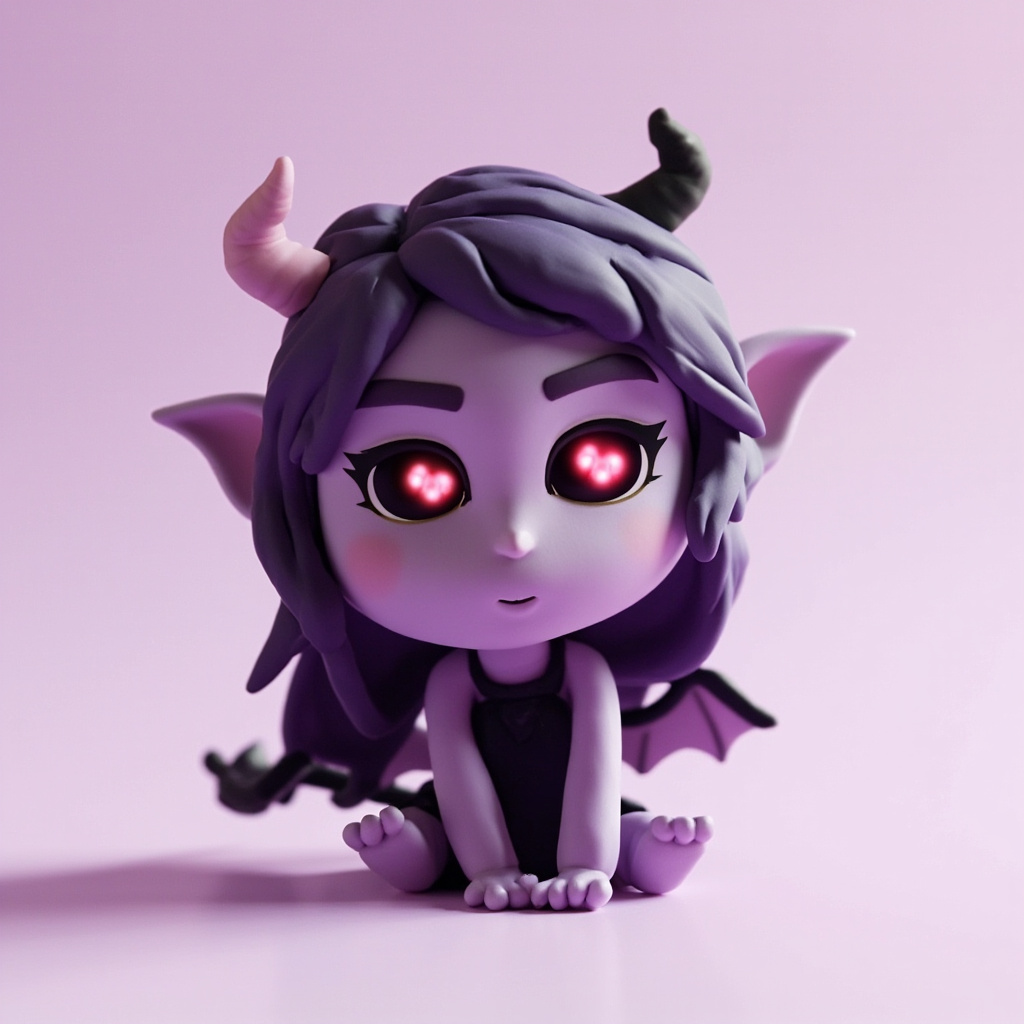
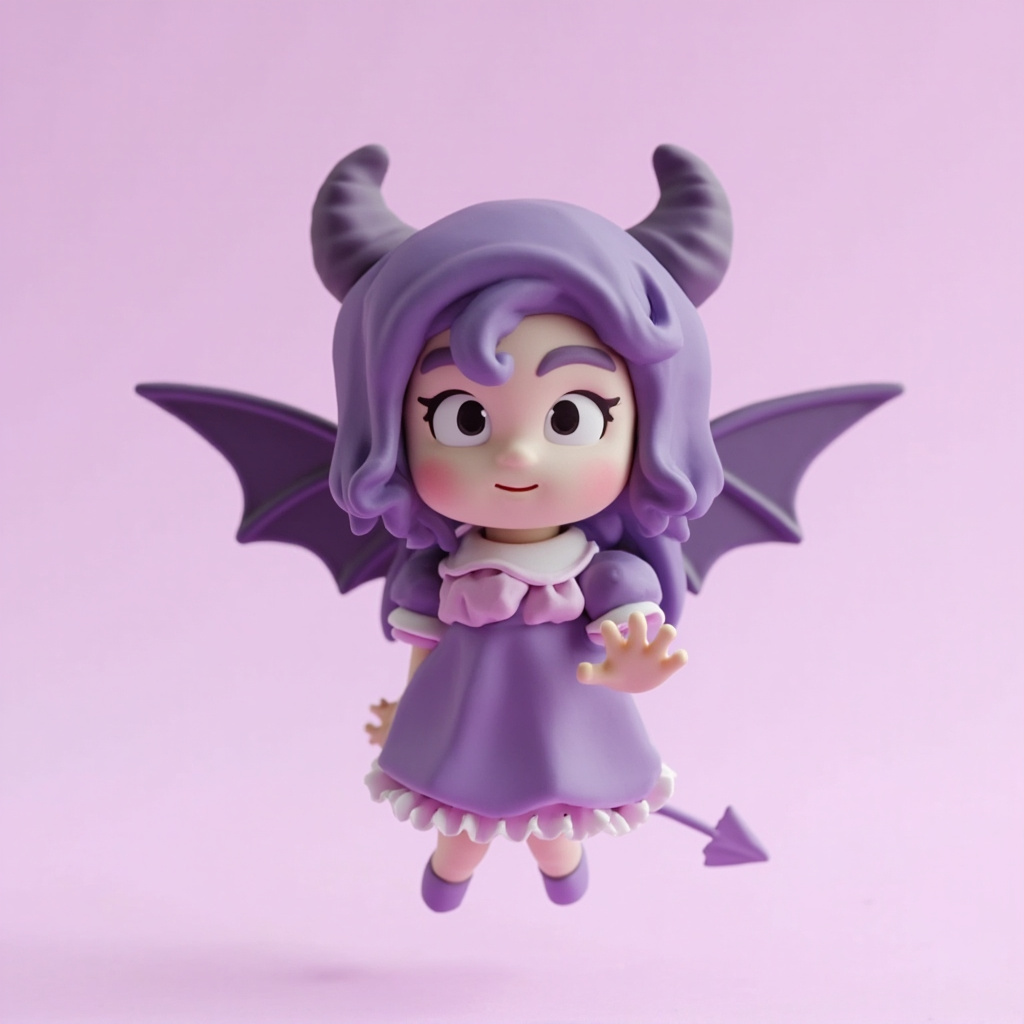
fix(assets): rework the succubus as a G-rated demon girl in a normal dress
Owner rule: every asset is rated G, with no sexual suggestion. The succubus
loses the heart eyes and the slip dress; it gets a lilac dress with puffed
sleeves and a white collar, lavender hair, and a new mockup. A rename of the
row waits for the owner (spec, Open decisions).

diff --git a/assets/succubus.ts b/assets/succubus.ts
@@ -2,38 +2,41 @@ import { profile, sdf } from '../src/index.js';
 import { impAsset } from './parts/imp-kind.js';
 
 /**
- * Succubus — Chibi Quest monster (catalog `monsters/abyssal-and-cosmic/succubus`), a charming
+ * Succubus — Chibi Quest monster (catalog `monsters/abyssal-and-cosmic/succubus`), a friendly
  * little demon girl about 0.85 m to the horn tips, faces +Z. Target:
  * docs/monster-mockups/succubus_001.jpg (made with mmx from the imp mockup).
  *
- * The imp of `assets/parts/imp-kind.ts` (head, ears, body, bat wings, arrow tail, rig, and clips) as
- * a demon charmer: lilac skin; long dark violet hair with a side-swept fringe; two curved dark horns
- * that rise up and back; a calm face with arched brows, dark lashes, pink cheeks, a small smile, and
- * glowing pink hearts in dark eyes; a dark slip dress; dark violet bat wings; no claws.
- * Role: a charming caster of the abyss family; the hair, the horns, and the glowing heart eyes read
- *   at 128 px. The mockup sits on the ground; the asset hovers like the imp.
- * Palette (60/30/10): lilac skin #b898d0 (darker back); dark violet hair, wings, and dress; dark
- *   horns; glowing pink heart eyes #ff4a9a and pink cheeks as the accent.
- * Bodies added: hair (rigid on the head), dress (on the torso), hearts (glowing, on the head).
+ * Owner rule (2026-10-04): every asset is rated G, with no sexual suggestion. This one is a pretty
+ * little demon in a normal dress.
+ *
+ * The imp of `assets/parts/imp-kind.ts` (head, ears, body, bat wings, arrow tail, rig, and clips)
+ * as a friendly demon girl: pale skin; long lavender hair with a side-swept fringe; two curved
+ * mauve horns that rise up and out; a calm face with dark eyes, thin lids, arched brows, pink
+ * cheeks, and a small smile; a lilac dress with short puffed sleeves, a white collar, a white hem,
+ * and a skirt to the knees; small violet bat wings; no claws.
+ * Role: a caster of the abyss family; the hair, the horns, and the lilac dress read at 128 px.
+ * Palette (60/30/10): pale skin #f2d8cc; lavender hair, a lilac dress, and violet wings (all follow
+ *   the wings slot); mauve horns; a white collar and hem, and pink cheeks as the accent.
+ * Bodies added: hair (rigid on the head), dress (bodice, skirt, and sleeves), collar.
  */
 
 type V3 = [number, number, number];
 
 export default impAsset({
   name: 'succubus',
-  description: 'Chibi succubus monster: a lilac demon girl with long dark violet hair, two curved dark horns, glowing pink heart eyes, arched brows, pink cheeks, a small smile, a dark slip dress, dark violet bat wings, and an arrow-tipped tail.',
+  description: 'Chibi succubus monster: a friendly little demon girl with long lavender hair, two curved mauve horns, dark eyes, pink cheeks, a small smile, a lilac dress with short puffed sleeves and a white collar, small violet bat wings, and an arrow-tipped tail.',
   reference: 'docs/monster-mockups/succubus_001.jpg',
   variants: {
-    skin: { lilac: '#b898d0', rose: '#e0a0b0', ash: '#a8a4b4' },
-    wings: { violet: '#4a2a5e', black: '#262028', wine: '#5e2236' },
-    eyes: { pink: '#ff4a9a', red: '#ff3a3a', gold: '#ffc83a' },
-    horns: { dark: '#2a1a2c', bone: '#c8b8a8', crimson: '#7a1e2a' },
+    skin: { pale: '#f2d8cc', lilac: '#c8b0dc', rose: '#eab4b8' },
+    wings: { violet: '#6a4a8e', plum: '#5e2a4e', slate: '#4a4a62' },
+    eyes: { brown: '#4a2a20', violet: '#7a4ab0', green: '#3a8a50' },
+    horns: { mauve: '#6a5a7a', dark: '#2a1a2c', bone: '#c8b8a8' },
   },
   presets: {
-    rose: { skin: 'rose', wings: 'wine', eyes: 'red', horns: 'crimson' },
-    ash: { skin: 'ash', wings: 'black', eyes: 'gold', horns: 'bone' },
+    lilac: { skin: 'lilac', wings: 'plum', eyes: 'violet', horns: 'dark' },
+    rose: { skin: 'rose', wings: 'slate', eyes: 'green', horns: 'bone' },
   },
-  colors: { skinDark: '#9478b0', belly: '#c8ace0', brow: '#3a2048', mouth: '#7a3a5a', vein: '#3a2048', wingBone: '#2a1a30' },
+  colors: { skinDark: '#dcbcb4', belly: '#f6e0d6', brow: '#5a3a6a', mouth: '#8a4a5a', vein: '#4a2a6a', wingBone: '#3a2a4a', irisDark: '#2a160e' },
   crest: false,
   brows: false,
   mouth: 'smile',
@@ -42,53 +45,30 @@ export default impAsset({
   wingScale: 0.8,
   horns: [
     [
-      [0.068, 0.6, 0.0, 0.03],
-      [0.1, 0.665, -0.02, 0.025],
-      [0.11, 0.735, -0.05, 0.017],
-      [0.09, 0.785, -0.09, 0.006],
+      [0.07, 0.6, 0.0, 0.034],
+      [0.13, 0.66, -0.01, 0.03],
+      [0.16, 0.73, 0.0, 0.022],
+      [0.14, 0.78, 0.03, 0.008],
     ],
   ],
   paint(skin, imp) {
     const [ex, ey] = imp.eye;
     const at = (s: sdf.Shape, x: number, y: number) => s.at(x, y, imp.faceZ(Math.abs(x), y));
     const both = (s: (x: number) => sdf.Shape) => sdf.union(s(ex), s(-ex));
-    // Dark irises (the hearts glow on them), dark lashes over the eyes, arched brows, pink cheeks.
-    const iris = both((x) => at(sdf.ellipsoid([0.038, 0.041, 0.07]), x - Math.sign(x) * 0.004, ey - 0.004));
-    const shine = both((x) => at(sdf.sphere(0.008), x + 0.012, ey + 0.016));
-    const lash = (x: number) => sdf.extrude(profile.arc(0.05, 0.011, 18, 162), 0.3).at(x, ey - 0.006, 0.1);
+    // The imp's round eyes stay; a thin dark lid line over each eye, arched brows, pink cheeks.
+    const lid = (x: number) => sdf.extrude(profile.arc(0.05, 0.007, 22, 158), 0.3).at(x, ey - 0.004, 0.1);
     const brow = (x: number) => sdf.extrude(profile.arc(0.06, 0.008, 45, 135), 0.3).at(x + Math.sign(x) * 0.004, ey + 0.012, 0.1);
     const cheeks = both((x) => at(sdf.ellipsoid([0.026, 0.016, 0.07]), x * 1.55, 0.466));
     return skin
-      .paintWhere(iris, '#3a1030', 0.003)
-      .paintWhere(shine, '#ffffff', 0.002)
-      .paintWhere(both(lash), '#2a1426', 0.002)
+      .paintWhere(both(lid), '#2a1426', 0.002)
       .paintWhere(both(brow), imp.tint.brow, 0.002)
       .paintWhere(cheeks, imp.tone('skin', '#f0a0c0', 0.5), 0.012);
   },
   extra(k, imp) {
-    const [ex, ey] = imp.eye;
     const head = imp.head;
-    // Glowing hearts in the eyes: a thin layer on the face, cut to a heart outline.
-    const heart = profile.polygon(
-      [
-        [0, -0.019],
-        [0.019, 0.002],
-        [0.017, 0.014],
-        [0.008, 0.017],
-        [0, 0.009],
-        [-0.008, 0.017],
-        [-0.017, 0.014],
-        [-0.019, 0.002],
-      ],
-      { smooth: true, samples: 3 },
-    );
-    const hearts = sdf.union(...[ex, -ex].map((x) => sdf.extrude(heart, 0.1).at(x - Math.sign(x) * 0.004, ey - 0.006, imp.faceZ(Math.abs(x), ey))));
-    const glow = head.round(0.0015).intersect(hearts).intersect(sdf.halfSpace([0, 0, -1], -0.05));
-    k.body('hearts', glow.bone('head'), { color: k.tint('eyes'), emissive: k.tint('eyes'), emissiveIntensity: 1.3, roughness: 0.3, detail: 0.002 });
-
     // Long hair: a cap over the skull, a mass down the back of the head, a side-swept fringe, and two
     // long locks in front of the shoulders. The face stays clear.
-    const hairColor = imp.tone('wings', '#4a2a5e', 1);
+    const hairColor = imp.tone('wings', '#9a82c4', 1);
     const cap = head.round(0.024).intersect(sdf.halfSpace([0, -1, 0], -0.47));
     const back = sdf.ellipsoid([0.17, 0.15, 0.11]).at(0, 0.49, -0.05);
     const lock = (s: 1 | -1) =>
@@ -138,8 +118,33 @@ export default impAsset({
       .displace(0.003, (x, y, z) => Math.sin(Math.atan2(x, z) * 16 + y * 20));
     k.body('hair', hair.bone('head'), { color: hairColor, roughness: 0.55, detail: 0.004 });
 
-    // A dark slip dress: a thin layer on the torso from the chest to the hips.
-    const dress = imp.torso.round(0.007).intersect(sdf.box([0.4, 0.2, 0.4]).at(0, 0.3, 0));
-    k.body('dress', dress.bone('spine'), { color: '#2a1a30', roughness: 0.6, detail: 0.004 });
+    // A lilac dress: a bodice over the torso, a skirt that flares to the knees with a lighter hem,
+    // and short puffed sleeves; a round white collar at the neck.
+    const dressColor = imp.tone('wings', '#a888cc', 1);
+    const bodice = imp.torso.round(0.008).intersect(sdf.box([0.4, 0.2, 0.4]).at(0, 0.31, 0));
+    const skirt = sdf
+      .revolve(
+        profile.polygon(
+          [
+            [0, 0.29],
+            [0.09, 0.29],
+            [0.1, 0.25],
+            [0.12, 0.19],
+            [0.134, 0.15],
+            [0, 0.15],
+          ],
+          { smooth: true, samples: 4 },
+        ),
+      )
+      .scale([1, 1, 0.92])
+      .at(0, 0, 0.012);
+    const { SHOULDER, ELBOW } = imp.joints;
+    const puff = sdf.ellipsoid([0.042, 0.036, 0.042]).at(SHOULDER[0] + (ELBOW[0] - SHOULDER[0]) * 0.3, SHOULDER[1] + (ELBOW[1] - SHOULDER[1]) * 0.3, SHOULDER[2] + (ELBOW[2] - SHOULDER[2]) * 0.3);
+    const dress = sdf
+      .union(bodice.bone('chest'), skirt.bone('hips'), puff.bone('upperarm.L').mirror('x'))
+      .paintWhere(sdf.halfSpace([0, 1, 0], 0.168), imp.tone('wings', '#f2eaf4', 1), 0.004);
+    k.body('dress', dress, { color: dressColor, roughness: 0.7, detail: 0.004 });
+    const collar = sdf.torus(0.074, 0.02).scale([1, 0.55, 1]).at(0, 0.372, 0.018);
+    k.body('collar', collar.bone('chest'), { color: '#f6f2ec', roughness: 0.7, detail: 0.003 });
   },
 });

diff --git a/measure/tracks/asset_p2_monsters_20260928/plan.md b/measure/tracks/asset_p2_monsters_20260928/plan.md
@@ -170,7 +170,7 @@ review entry in `docs/character-reviews.json` (scores, issues, next steps).
 | dire-bear | monsters/beast/dire-bear | boar kind: bear muzzle, round ears, paws, stub tail | 7.6 |
 | owlbear | monsters/beast/owlbear | goblin kind: no ears or face; owl face, bear ears, ruff, wing arms | 7.5 |
 | fairy-sprite | monsters/fey-and-spirit/fairy-sprite | imp kind: upright ears, closed eyes, leaves, dragonfly wings | 7.6 |
-| succubus | monsters/abyssal-and-cosmic/succubus | imp kind: long hair, heart eyes, horns, dress | 7.5 |
+| succubus | monsters/abyssal-and-cosmic/succubus | imp kind: a friendly demon girl, long hair, horns, a lilac dress | 7.6 |
 | eldritch-eye | monsters/abyssal-and-cosmic/eldritch-eye | spirit kind: an eyeball head shape, no face | 7.7 |
 | eldritch-horror | monsters/abyssal-and-cosmic/eldritch-horror | slime kind: matte, hollow eyes, maw, tentacles, orb crown | 7.6 |
 | mushroom-creature | monsters/small/mushroom-creature | goblin kind: no ears or face; spotted cap, stem body | 7.7 |
@@ -183,6 +183,10 @@ review entry in `docs/character-reviews.json` (scores, issues, next steps).
   `bubbles`, and `extra`.
 - The image model drew the owlbear as a biped in three tries (with the dire wolf, dire bear, and
   boar mockups as references), so the owlbear is a biped on the goblin kind.
+- Owner rule (2026-10-04): every asset is rated G, with no sexual suggestion. The first succubus
+  (heart eyes, a slip dress) broke it; the rework is a pretty demon girl in a normal lilac dress
+  with puffed sleeves and a white collar, with a new mockup. The row name stays until the owner
+  decides (see the spec, "Open decisions").
 - Prettier reformats a whole kind file (500 changed lines); edit kind files without the formatter.
 - All eight: `ground ok`, `forge all` with 0 warnings, a mockup from mmx.
 

diff --git a/measure/tracks/asset_p2_monsters_20260928/spec.md b/measure/tracks/asset_p2_monsters_20260928/spec.md
@@ -21,3 +21,10 @@ Produce and accept the P2 catalog rows in the monsters family. Select batches fr
 ## Scope control
 
 Existing paths remain stable. Catalog IDs define scope; filename matches indicate source coverage only.
+
+## Open decisions
+
+- The catalog row `monsters/abyssal-and-cosmic/succubus`: in folklore the name means a demon that
+  seduces people. The asset is now a G-rated demon girl in a normal dress, but the name stays in
+  the catalog (TSV and Markdown), the asset file, the reviews, and the Measure files. Proposal:
+  rename the row and the asset to `little-demon` (a path change, so it waits for the owner).
